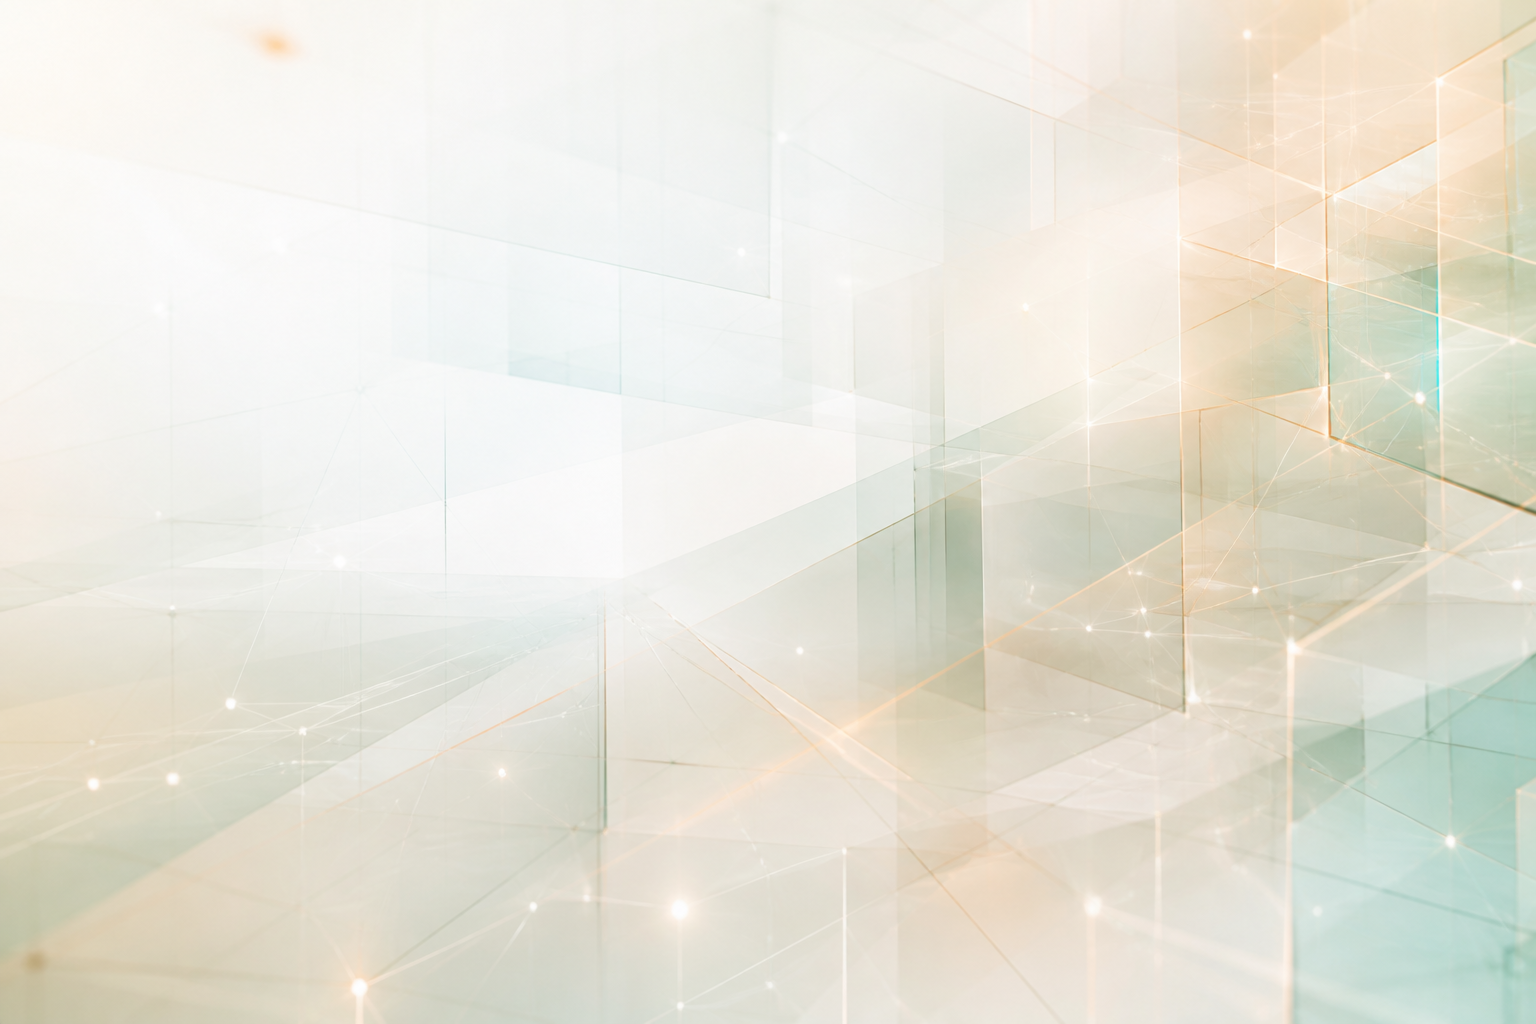
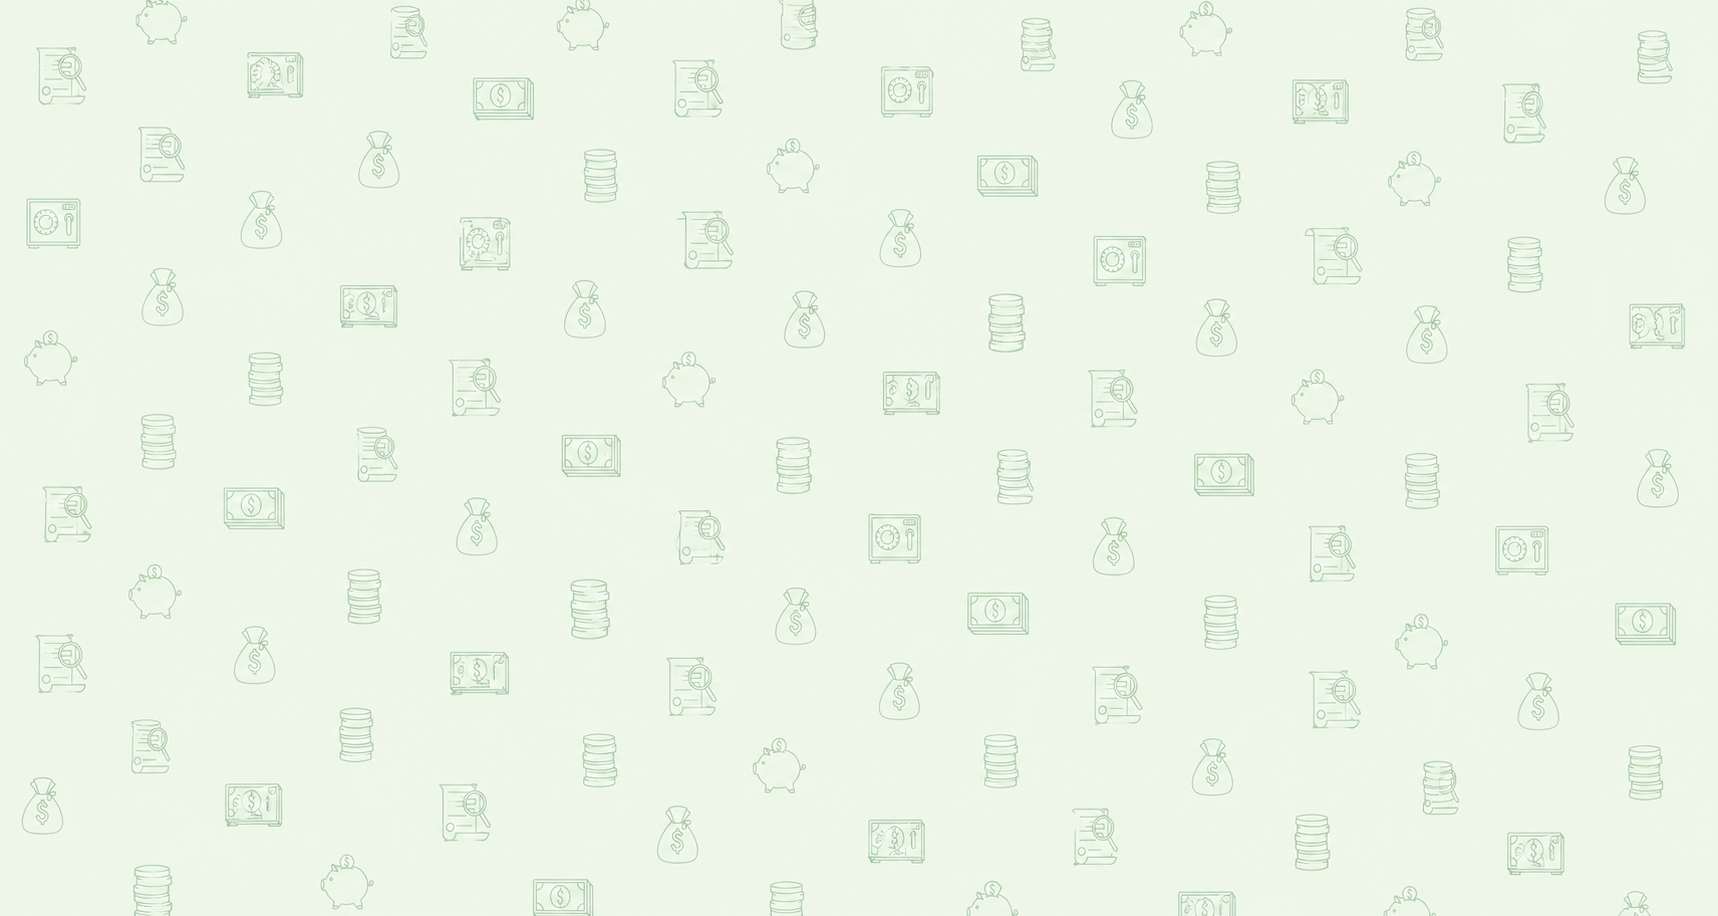
update

diff --git a/src/certificati/main.py b/src/certificati/main.py
@@ -1,17 +1,22 @@
 from contextlib import asynccontextmanager
+from datetime import date
 from pathlib import Path
+import sqlite3
 import threading
 import webbrowser
 
 import uvicorn
-from fastapi import FastAPI
+from fastapi import FastAPI, HTTPException
+from pydantic import BaseModel, Field
 from fastapi.responses import FileResponse
 from fastapi.staticfiles import StaticFiles
 
+from certificati.backtest import run_backtest
 from certificati.database import check_database
 
 PROJECT_DIR = Path(__file__).resolve().parents[2]
 DATA_DIR = PROJECT_DIR / "data"
+DATABASE_PATH = DATA_DIR / "russell_prices.sqlite"
 BASE_DIR = Path(__file__).resolve().parent
 STATIC_DIR = BASE_DIR / "static"
 ASSETS_DIR = STATIC_DIR / "assets"
@@ -25,6 +30,60 @@ async def lifespan(app: FastAPI):
 
 app = FastAPI(lifespan=lifespan)
 app.mount("/assets", StaticFiles(directory=ASSETS_DIR), name="assets")
+
+
+class BacktestRequest(BaseModel):
+    start_date: date = date(2016, 1, 4)
+    end_date: date = date(2026, 7, 31)
+    target_open_trades: int = Field(60, ge=1)
+    min_maturity_months: int = Field(6, ge=1)
+    max_maturity_months: int = Field(12, ge=1)
+    barrier: float = Field(60, gt=0)
+    airbag: bool = True
+    autocall: bool = True
+    autocall_level_one: float = Field(90, ge=0)
+    autocall_step_down: float = Field(5, ge=0)
+    autocall_floor: float = Field(75, ge=0)
+    coupon_trigger: bool = True
+    coupon_trigger_level: float = Field(75, ge=0)
+    annual_coupon: float = Field(0.20, ge=0)
+    initial_capital: float = Field(1_000_000, gt=0)
+    risk_free_rate: float = Field(0.05, ge=0)
+    tickers: list[str] | None = None
+    random_basket_size: int = Field(3, ge=1, le=5)
+
+
+@app.get("/api/tickers")
+def search_tickers(query: str = "", limit: int = 20):
+    """Return ticker symbols for the custom-basket picker."""
+    limit = max(1, min(limit, 100))
+    pattern = f"%{query.strip().upper()}%"
+
+    with sqlite3.connect(DATABASE_PATH) as database:
+        rows = database.execute(
+            """
+            SELECT ticker, first_date, last_date
+            FROM tickers
+            WHERE ticker LIKE ?
+            ORDER BY ticker
+            LIMIT ?
+            """,
+            (pattern, limit),
+        ).fetchall()
+
+    return [
+        {"ticker": ticker, "first_date": first_date, "last_date": last_date}
+        for ticker, first_date, last_date in rows
+    ]
+
+
+@app.post("/api/backtest")
+def create_backtest(request: BacktestRequest):
+    """Run a backtest and return the complete result in the response."""
+    try:
+        return run_backtest(**request.model_dump(), database_path=DATABASE_PATH)
+    except (ValueError, RuntimeError, sqlite3.Error) as error:
+        raise HTTPException(status_code=422, detail=str(error)) from error
 
 
 @app.get("/{path:path}", include_in_schema=False)
